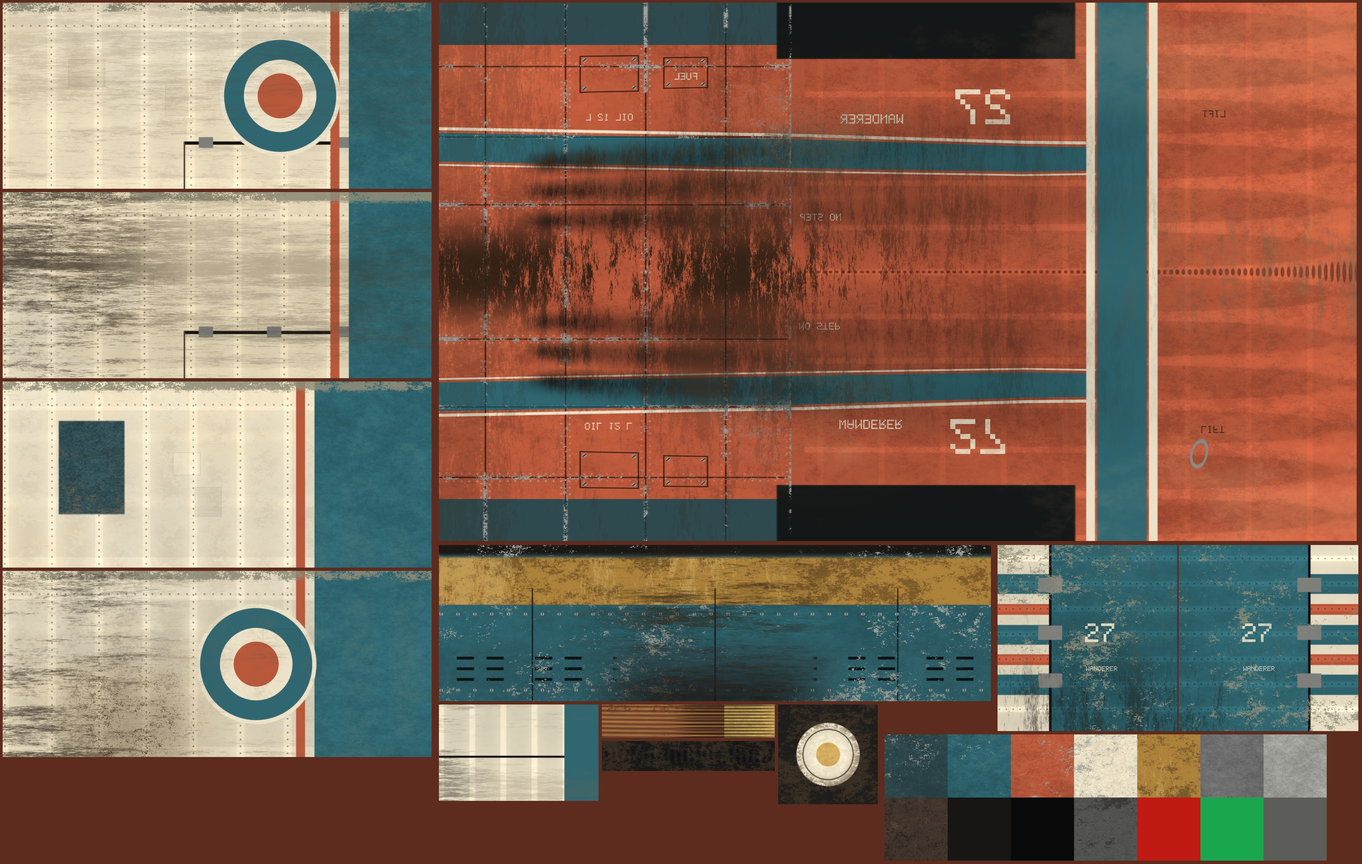
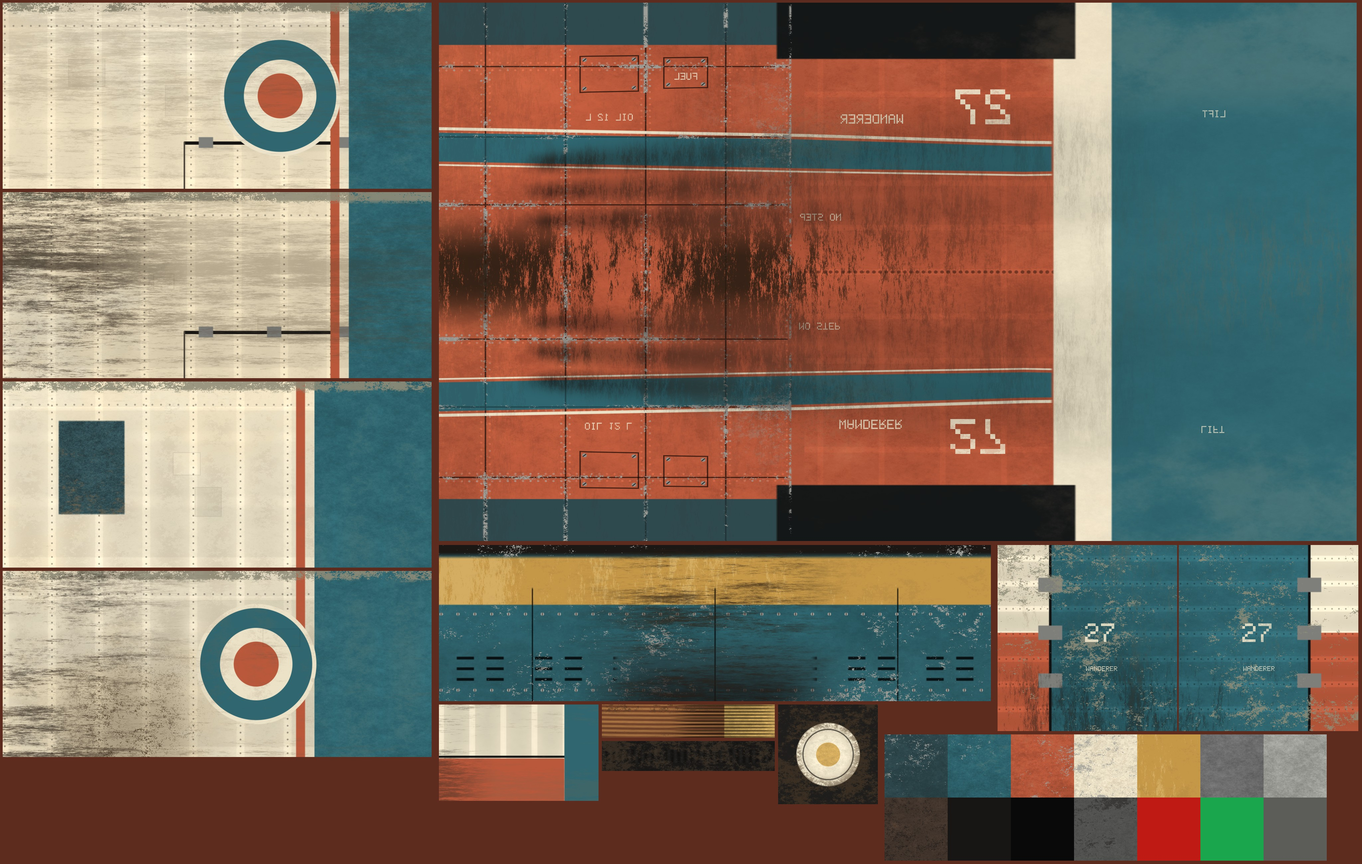
ITER(hero-plane): less rust, bold colour blocks on the rear
Decisions: The user's two notes. Rust: `polished` brass (spinner, cowl lip)
goes from heavy brown tarnish to clean gold with a breath of it; the "burnt"
swatch (exhaust) loses most of its orange; the cowl's and body's tan stains,
exhaust soot, oil runs and hand dirt all come down. It stays used: chips, soot
and dust remain, lighter.
Rear: from the chase you see the tail from above and behind, so the blocks went
there. A cream band z 0.34..0.42, the tail cone in solid trim from it to the fin,
the elevators in the body colour, the cheat line now ending on the band. The
rudder drops its five thin bars for two blocks (body colour low, cream on top).
Stringer tape and slack are quieter. By eye at chase the hood's dark frames still
read as a dark busy patch where the old body showed its colour, so the hood's
frames moved to the body colour (one swatch change in the build). All new blocks
use mask slots, so liveries repaint them.
Files: art/blender/hero_plane/hero_plane_paint.py, hero_plane_build.py,
assets/models/hero_plane/ (albedo, mask, orm, glb)
Checks: blender build exit 0, 21720 tris, 14 nodes. tools/smoke.py endless_flight,
flight_study, ruin_kit_gallery: 3/3 passed. Rendered stills 0 errors, title and
flight. Old vs new chase crop re-shot in the same frames: the old figure hung on
the same node and swapped by visibility (scratch/hero_chase.gd), 3 moments. Judged:
the rear now reads as teal, cream and terracotta blocks; rust gone from the nose.
[…]

diff --git a/art/blender/hero_plane/hero_plane_paint.py b/art/blender/hero_plane/hero_plane_paint.py
@@ -342,7 +342,7 @@ def paint_body(cv):
 	p.lay(K["BODY_C"], np.ones_like(z), 0, 0.46, 0.55, 0.0)
 	p.shade(1.0 + (p.big - 0.5) * 0.2 + (p.mid - 0.5) * 0.12)
 	p.col = over(p.col, np.array((0.78, 0.45, 0.28), dtype=np.float32), sst(0.5, 0.8, p.big) * 0.2)
-	p.col = over(p.col, np.array((0.5, 0.21, 0.15), dtype=np.float32), sst(0.5, 0.8, 1.0 - p.mid) * 0.22)
+	p.col = over(p.col, np.array((0.56, 0.24, 0.16), dtype=np.float32), sst(0.5, 0.8, 1.0 - p.mid) * 0.14)
 
 	# Metal: panel seams, rivets and access plates.
 	seams_z = (-0.44, -0.33, -0.22, -0.11, K["FABRIC_FROM"])
@@ -392,8 +392,8 @@ def paint_body(cv):
 	dist = np.minimum(dist, np.abs(1.0 - bay) * (math.tau / n) * r)
 	tape = (1.0 - sst(0.0042, 0.0056, dist + (p.fine - 0.5) * 0.0015)) * fabric
 	slack = np.sin(bay * math.pi) * fabric
-	p.shade(1.0 - slack * 0.07)
-	p.shade(1.0 + tape * 0.1)
+	p.shade(1.0 - slack * 0.04)
+	p.shade(1.0 + tape * 0.05)
 	p.hgt += tape * 1.1 + fabric * (weave(z, s, 0.0034) * 0.1 + (p.fine - 0.5) * 0.25)
 	former = (1.0 - sst(0.0032, 0.0046, np.abs(((z - 0.02) / 0.084 + 0.5) % 1.0 - 0.5) * 0.084)) * fabric
 	p.shade(1.0 + former * 0.05)
@@ -421,13 +421,17 @@ def paint_body(cv):
 	p.lay(K["DARK_C"], deck, 3, 0.74, 0.08, 0.0)
 	line_top = np.interp(z, [-0.5, 0.0, 0.3, 0.72], [1.5, 1.58, 1.66, 1.7]).astype(np.float32)
 	line_w = np.interp(z, [-0.5, 0.0, 0.3, 0.72], [0.34, 0.34, 0.3, 0.2]).astype(np.float32)
-	cheat = band(aphi, line_top, line_top + line_w, 0.006) * (1.0 - sst(0.395, 0.4, z))
-	pin_ = (band(aphi, line_top - 0.065, line_top - 0.03, 0.005) + band(aphi, line_top + line_w + 0.03, line_top + line_w + 0.05, 0.005)) * (1.0 - sst(0.395, 0.4, z))
+	cheat = band(aphi, line_top, line_top + line_w, 0.006) * (1.0 - sst(0.335, 0.34, z))
+	pin_ = (band(aphi, line_top - 0.065, line_top - 0.03, 0.005) + band(aphi, line_top + line_w + 0.03, line_top + line_w + 0.05, 0.005)) * (1.0 - sst(0.335, 0.34, z))
 	p.lay(K["TRIM_C"], cheat, 1, 0.44, 0.55)
 	p.lay(K["WING_C"], pin_, 2, 0.5, 0.45)
-	ringt = band(z, 0.40, 0.468, 0.0015)
-	p.lay(K["TRIM_C"], ringt, 1, 0.44, 0.55)
-	p.lay(K["WING_C"], band(z, 0.385, 0.397, 0.001) + band(z, 0.471, 0.483, 0.001), 2, 0.5, 0.45)
+	# The rear in big plain blocks, for the chase: a wide cream band, then the
+	# tail cone in the trim, running into the fin.
+	block = sst(0.3385, 0.3415, z)
+	p.lay(K["WING_C"], block, 2, 0.5, 0.45)
+	cone = sst(0.4185, 0.4215, z)
+	p.lay(K["TRIM_C"], cone, 1, 0.44, 0.55)
+	p.shade(1.0 + block * ((p.big - 0.5) * 0.14 + (p.mid - 0.5) * 0.06))
 	# Re-cut the seams through the scheme, since a coat doesn't hide them.
 	p.shade(1.0 - seam * 0.3 * (deck + cheat * 1.0))
 	# Cockpit well under the glass.
@@ -435,7 +439,6 @@ def paint_body(cv):
 	p.lay(np.array((0.08, 0.09, 0.09), dtype=np.float32), well, 3, 0.9, 0.0)
 	# Stencils and the number.
 	bone = K["WING_C"]
-	dk = np.array((0.12, 0.1, 0.09), dtype=np.float32)
 	def on(side, z_at, a_phi):
 		r_at = float(np.interp(z_at, [b[0] for b in K["BODY"]], [max(b[1], (b[2] - b[3]) * 0.5) for b in K["BODY"]]))
 		col = 8.0 + (z_at - Z0) * f
@@ -456,9 +459,9 @@ def paint_body(cv):
 	c, rw = on(1.0, 0.09, 1.34)
 	p.text("WANDERER", c, rw, 4, bone, 2, True, False, 0.85)
 	c, rw = on(1.0, 0.56, 1.28)
-	p.text("LIFT", c, rw, 3, dk, None, True, False, 0.7)
+	p.text("LIFT", c, rw, 3, bone, 2, True, False, 0.7)
 	c, rw = on(-1.0, 0.56, 1.28)
-	p.text("LIFT", c, rw, 3, dk, None, False, True, 0.7)
+	p.text("LIFT", c, rw, 3, bone, 2, False, True, 0.7)
 
 	# Wear. Hands: the flank under the cockpit and round the step, rubbed to
 	# bare skin in places, the paint chipped along every seam nearest to it.
@@ -467,11 +470,11 @@ def paint_body(cv):
 	on_seam = np.maximum(blur(seam, 3.0) * 3.0, 0.0)
 	chips = worn * np.clip(on_seam * 2.0 + near * 0.7, 0.0, 1.0) * sst(0.6, 0.7, p.chip + (p.fine - 0.5) * 0.3 + on_seam * 0.25)
 	p.lay(K["ALU_C"], chips, None, 0.36, 0.0, 1.0)
-	p.stain(K["DUST_C"], near * sst(0.45, 0.8, p.mid) * 0.36)
-	p.stain(K["SOOT_C"], near * sst(0.5, 0.8, p.fine) * 0.18)
+	p.stain(K["DUST_C"], near * sst(0.45, 0.8, p.mid) * 0.22)
+	p.stain(K["SOOT_C"], near * sst(0.5, 0.8, p.fine) * 0.1)
 	# The fabric's scrapes low on the tail, and the chafed keel.
 	aft = sst(0.3, 0.68, z)
-	p.stain(K["DUST_C"], aft * sst(1.9, 2.9, aphi) * sst(0.3, 0.7, p.along) * 0.5)
+	p.stain(K["DUST_C"], aft * sst(1.9, 2.9, aphi) * sst(0.3, 0.7, p.along) * 0.3)
 	# Exhaust: soot laid back from the stubs, thinning, climbing a little in the
 	# wash. Three plumes a side, merging, gone by the tail.
 	plume = np.zeros_like(z)
@@ -481,14 +484,14 @@ def paint_body(cv):
 		plume = np.maximum(plume, np.exp(-((aphi - climb) / spread) ** 2) / (1.0 + np.clip(z + 0.36, 0.0, 1.0) * 2.2))
 	plume *= sst(-0.40, -0.345, z) * (1.0 - sst(0.2, 0.62, z))
 	soot = plume * (0.55 + 0.45 * sst(0.3, 0.75, p.along))
-	p.stain(K["SOOT_C"], np.clip(soot * 0.95, 0.0, 0.85), 0.82)
+	p.stain(K["SOOT_C"], np.clip(soot * 0.7, 0.0, 0.65), 0.82)
 	tan = plume * sst(0.45, 0.78, p.along * 0.6 + p.mid * 0.4)
-	p.stain(np.array((0.34, 0.24, 0.15), dtype=np.float32), np.clip(tan * 0.5, 0.0, 0.6))
+	p.stain(np.array((0.3, 0.24, 0.18), dtype=np.float32), np.clip(tan * 0.2, 0.0, 0.3))
 	# Oil: the belly, in long glossy runs from the sump.
 	oil = sst(2.35, 3.0, aphi) * (1.0 - sst(-0.1, 0.4, z)) * sst(0.42, 0.68, p.along)
 	p.stain(K["OIL_C"], np.clip(oil * 0.9, 0.0, 0.9), 0.3)
 	# Runs under the fasteners and the rivets.
-	drip = sst(0.6, 0.78, p.along) * metal * 0.18
+	drip = sst(0.62, 0.8, p.along) * metal * 0.08
 	p.stain(np.array((0.18, 0.13, 0.1), dtype=np.float32), drip)
 	# Sun: the cloth's top chalks a little.
 	p.col = over(p.col, np.array((0.9, 0.72, 0.56), dtype=np.float32), fabric * (1.0 - sst(0.8, 1.5, aphi)) * sst(0.45, 0.75, p.big) * 0.12)
@@ -561,16 +564,16 @@ def paint_cowl(cv):
 	p.hgt += (blur(lou, 3.0) * 2.2 - lou * 3.4) * 1.0
 	# Chips along the skirt and the blisters' crowns; rubbed metal round fasteners.
 	crown = np.exp(-(((t + bay * 0.5) % bay - bay * 0.5) / 0.14) ** 2) * band(q, 0.3, 0.6, 0.04)
-	chips = sst(0.8, 0.84, p.chip + crown * 0.05 + sst(0.9, 1.0, q) * 0.1 + (p.fine - 0.5) * 0.16)
+	chips = sst(0.84, 0.88, p.chip + crown * 0.05 + sst(0.9, 1.0, q) * 0.1 + (p.fine - 0.5) * 0.16)
 	p.lay(K["ALU_C"], chips * (1.0 - lip), None, 0.34, 0.0, 1.0)
 	# Soot: back from the lip low down, heavy over the stubs, heat straw on top.
 	lower = np.abs(t % math.tau - math.pi)     # from the keel
 	low = 1.0 - sst(0.5, 1.7, lower)
 	p.stain(K["SOOT_C"], np.clip(low * sst(0.55, 1.0, q) * (0.45 + 0.55 * p.across) * 1.1, 0.0, 0.85), 0.8)
 	p.stain(K["OIL_C"], np.clip(low * sst(0.3, 0.72, p.across) * 0.7, 0.0, 0.7), 0.32)
-	p.stain(np.array((0.34, 0.27, 0.19), dtype=np.float32), sst(0.2, 0.5, q) * sst(0.5, 0.8, p.across) * 0.28)
+	p.stain(np.array((0.3, 0.27, 0.22), dtype=np.float32), sst(0.2, 0.5, q) * sst(0.5, 0.8, p.across) * 0.12)
 	heat = band(q, 0.64, 1.0, 0.12) * (0.25 + 0.5 * low)
-	p.stain(np.array((0.22, 0.2, 0.19), dtype=np.float32), heat * 0.3)
+	p.stain(np.array((0.22, 0.2, 0.19), dtype=np.float32), heat * 0.2)
 	p.store()
 
 
@@ -593,10 +596,7 @@ def paint_fin(cv, reg):
 	p.shade(1.0 + (p.big - 0.5) * 0.3 + (p.mid - 0.5) * 0.16)
 	p.lay(K["WING_C"], rudder, 2, 0.6, 0.3)
 	p.shade(1.0 + (p.big - 0.5) * 0.1 * rudder)
-	bars = (band(y, 0.235, 0.268, 0.001) + band(y, 0.15, 0.183, 0.001) + band(y, 0.066, 0.1, 0.001)) * rudder
-	p.lay(K["TRIM_C"], bars, 1, 0.46, 0.45)
-	bars2 = (band(y, 0.2, 0.218, 0.001) + band(y, 0.116, 0.134, 0.001)) * rudder
-	p.lay(K["BODY_C"], bars2, 0, 0.46, 0.45)
+	p.lay(K["BODY_C"], band(y, -0.2, 0.17, 0.001) * rudder, 0, 0.46, 0.45)
 	# Ribs, horizontal; a spar line; cloth weave.
 	pitch = 0.042
 	rib = np.abs(((y / pitch + 0.5) % 1.0) - 0.5) * pitch
@@ -647,6 +647,7 @@ def paint_tailplane(cv):
 	p.lay(np.array((0.08, 0.08, 0.08), dtype=np.float32), gap, None, 0.8, 0.0)
 	p.hgt -= gap * 2.2
 	p.lay(K["TRIM_C"], sst(0.205, 0.207, a), 1, 0.46, 0.45)
+	p.lay(K["BODY_C"], sst(h + 0.002, h + 0.004, b) * (1.0 - sst(0.205, 0.207, a)), 0, 0.46, 0.45)
 	p.stain(K["DUST_C"], sst(0.5, 0.8, p.across) * 0.22)
 	p.stain(K["SOOT_C"], (1.0 - sst(0.0, 0.1, a)) * sst(0.4, 0.75, p.across) * 0.35)
 	p.store()
@@ -682,11 +683,11 @@ def paint_prop(cv):
 
 
 def polished(p):
-	"""Brass a hand keeps bright: deep gold, tarnish in the low places, rubbed
-	pale along the grain."""
-	c = np.broadcast_to(K["BRASS_C"] * np.array((0.86, 0.8, 0.66), dtype=np.float32), p.col.shape)
-	c = over(c, np.array((0.36, 0.25, 0.12), dtype=np.float32), sst(0.5, 0.74, p.mid) * 0.62)
-	c = over(c, np.array((0.9, 0.78, 0.5), dtype=np.float32), sst(0.56, 0.76, p.along) * 0.34)
+	"""Brass a hand keeps bright: gold, a breath of tarnish in the low places,
+	rubbed pale along the grain."""
+	c = np.broadcast_to(K["BRASS_C"] * np.array((0.98, 0.93, 0.8), dtype=np.float32), p.col.shape)
+	c = over(c, np.array((0.56, 0.43, 0.22), dtype=np.float32), sst(0.58, 0.82, p.mid) * 0.16)
+	c = over(c, np.array((0.95, 0.84, 0.58), dtype=np.float32), sst(0.56, 0.76, p.along) * 0.34)
 	return c
 
 
@@ -775,7 +776,7 @@ def paint_swatches(cv):
 			p.met[:] = 0.7
 			p.rgh[:] = 0.62
 			p.shade(n)
-			p.col = over(p.col, np.array((0.44, 0.27, 0.16), dtype=np.float32), sst(0.45, 0.7, p.mid) * 0.8)
+			p.col = over(p.col, np.array((0.44, 0.27, 0.16), dtype=np.float32), sst(0.5, 0.75, p.mid) * 0.3)
 			p.col = over(p.col, np.array((0.09, 0.08, 0.08), dtype=np.float32), sst(0.5, 0.8, p.fine) * 0.6)
 			p.col = over(p.col, np.array((0.36, 0.31, 0.4), dtype=np.float32), sst(0.6, 0.8, p.big) * 0.3)
 		elif name == "rubber":

diff --git a/art/blender/hero_plane/hero_plane_build.py b/art/blender/hero_plane/hero_plane_build.py
@@ -743,12 +743,12 @@ def build_canopy(g, glass):
 	loft(glass, rings, lambda i, k: f(i, k), False, False, False)
 	# Frames: three hoops, the screen's bow, sills and a spine, proud of the glass.
 	for i, r in ((0, 0.0055), (2, 0.0052), (4, 0.0042), (5, 0.0042)):
-		tube(g, [tuple(p + Vector((0, 0.0012, 0))) for p in rings[i]], r, 6, "dark")
+		tube(g, [tuple(p + Vector((0, 0.0012, 0))) for p in rings[i]], r, 6, "body")
 	for k in (0, n):
-		tube(g, [tuple(rings[i][k]) for i in range(len(sta))], 0.0055, 6, "dark")
+		tube(g, [tuple(rings[i][k]) for i in range(len(sta))], 0.0055, 6, "body")
 	for k in (n // 2 - 3, n // 2 + 3):
-		tube(g, [tuple(rings[i][k] + Vector((0, 0.001, 0))) for i in range(0, 3)], 0.0038, 6, "dark")
-	tube(g, [tuple(rings[i][n // 2] + Vector((0, 0.001, 0))) for i in range(2, len(sta) - 1)], 0.0036, 6, "dark")
+		tube(g, [tuple(rings[i][k] + Vector((0, 0.001, 0))) for i in range(0, 3)], 0.0038, 6, "body")
+	tube(g, [tuple(rings[i][n // 2] + Vector((0, 0.001, 0))) for i in range(2, len(sta) - 1)], 0.0036, 6, "body")
 	# A dark well under the glass, so nothing's seen through it but dark.
 	tub = [[(math.sin(-math.pi * 0.5 + math.pi * k / 8) * sta[i][1] * 0.92, base(sta[i][0]) + 0.004 + math.cos(-math.pi * 0.5 + math.pi * k / 8) * 0.02, sta[i][0]) for k in range(9)] for i in range(len(sta) - 1)]
 	loft(g, tub, lambda i, k: f(i, k), False, False, False, 0.5)
